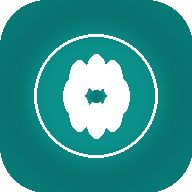
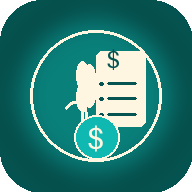
Add files via upload

diff --git a/index.html b/index.html
@@ -3,35 +3,41 @@
 <head>
 <meta charset="UTF-8">
 <meta name="viewport" content="width=device-width,initial-scale=1">
-<title>Dona Flor Gestão Financeira PRO</title>
+<title>Dona Flor Gestão Financeira</title>
 <link rel="manifest" href="/manifest.json">
 <link rel="icon" href="/icon-192.png">
 <link rel="apple-touch-icon" href="/icon-192.png">
-<meta name="theme-color" content="#0FB9B1">
+<meta name="theme-color" content="#055451">
 <style>
-:root{--t:#0FB9B1;--d:#087A76;--bg:#f3f5f7;--red:#b91c1c;--green:#16a34a;--blue:#2563eb;--orange:#f59e0b;--muted:#64748b}
-*{box-sizing:border-box}body{margin:0;font-family:Arial,sans-serif;background:linear-gradient(180deg,#f7fafb,#eef3f5);color:#17202A}
-.container{max-width:1180px;margin:auto;padding:16px}.card{background:#fff;border-radius:22px;padding:20px;margin-bottom:16px;box-shadow:0 10px 30px rgba(15,23,42,.08);border:1px solid rgba(15,185,177,.10)}
-.login-wrap{min-height:100vh;display:flex;align-items:center;justify-content:center;padding:22px;background:radial-gradient(circle at 50% 10%,rgba(15,185,177,.25),transparent 40%),linear-gradient(180deg,#f7fafb,#eaf0f3)}
-.login{width:100%;max-width:470px;text-align:center}.logo{width:105px;height:105px;border-radius:30px;margin:0 auto 14px;box-shadow:0 12px 26px rgba(10,143,138,.25)}
-h1{margin:0;color:var(--d);font-size:32px}h2{margin-top:0}.sub{color:var(--muted);margin-top:6px}
-input,select,textarea{width:100%;padding:14px;margin:7px 0;border-radius:14px;border:1px solid #D7DEE8;font-size:15px;outline:none}textarea{min-height:85px}
-button{padding:12px 15px;border:0;border-radius:14px;background:var(--d);color:#fff;font-weight:800;margin:4px;cursor:pointer}.btn-full{width:100%;margin-top:10px}.btn-light{background:#eef2f7;color:#111827}.btn-blue{background:var(--blue)}.btn-green{background:var(--green)}.btn-red{background:var(--red)}.btn-dark{background:#334155}.btn-orange{background:var(--orange);color:#111827}.btn-small{font-size:12px;padding:8px 10px}
+:root{--t:#0FB9B1;--d:#055451;--d2:#087A76;--bg:#f6faf9;--red:#b91c1c;--green:#15803d;--blue:#2563eb;--orange:#f59e0b;--muted:#64748b;--line:#e5e7eb;--cream:#fff6e1}
+*{box-sizing:border-box}body{margin:0;font-family:Arial,sans-serif;background:linear-gradient(180deg,#f8fcfb,#eef5f4);color:#17202A}
+.container{max-width:1180px;margin:auto;padding:16px}
+.card{background:#fff;border-radius:22px;padding:20px;margin-bottom:16px;box-shadow:0 10px 30px rgba(15,23,42,.08);border:1px solid rgba(15,185,177,.10)}
+.login-wrap{min-height:100vh;display:flex;align-items:center;justify-content:center;padding:22px;background:radial-gradient(circle at 50% 10%,rgba(15,185,177,.28),transparent 40%),linear-gradient(180deg,#f7fafb,#eaf0f3)}
+.login{width:100%;max-width:470px;text-align:center}.logo{width:105px;height:105px;border-radius:30px;margin:0 auto 14px;box-shadow:0 12px 26px rgba(5,84,81,.25)}
+h1{margin:0;color:var(--d);font-size:32px;line-height:1.1}h2{margin-top:0;color:#0f172a}.sub{color:var(--muted);margin-top:6px;line-height:1.35}
+input,select,textarea{width:100%;padding:14px;margin:7px 0;border-radius:14px;border:1px solid #D7DEE8;font-size:15px;outline:none;background:#fff}
+input:focus,select:focus,textarea:focus{border-color:var(--t);box-shadow:0 0 0 4px rgba(15,185,177,.12)}textarea{min-height:85px;resize:vertical}
+button{padding:12px 15px;border:0;border-radius:14px;background:var(--d2);color:#fff;font-weight:800;margin:4px;cursor:pointer}button:hover{filter:brightness(.97)}
+.btn-full{width:100%;margin-top:10px}.btn-light{background:#eef2f7;color:#111827}.btn-blue{background:var(--blue)}.btn-green{background:var(--green)}.btn-red{background:var(--red)}.btn-dark{background:#334155}.btn-orange{background:var(--orange);color:#111827}.btn-small{font-size:12px;padding:8px 10px}
 .erro{background:#fef2f2;border:1px solid #fecaca;color:#991b1b;padding:10px;border-radius:14px;margin-top:10px;display:none}.ok{background:#ecfdf5;border:1px solid #a7f3d0;color:#065f46;padding:10px;border-radius:14px;margin-top:10px}
+.nav{display:flex;gap:8px;flex-wrap:wrap;margin-top:10px}.nav button{background:#e8f8f6;color:var(--d)}.nav button.active{background:var(--d2);color:#fff}
 .grid{display:grid;grid-template-columns:1fr;gap:12px}.two{display:grid;grid-template-columns:1fr;gap:16px}.three{display:grid;grid-template-columns:1fr;gap:12px}
 .resumo{background:#E7FFFC;border-left:5px solid var(--t)}.alerta{background:#fff7ed;border-left:5px solid var(--orange)}.recado{background:#fef2f2;border-left:5px solid #ef4444}.resumo strong,.alerta strong,.recado strong{font-size:22px}
-table{width:100%;border-collapse:collapse;font-size:13px}th,td{padding:10px;border-bottom:1px solid #e5e7eb;text-align:left;vertical-align:middle}th{background:#f9fafb}.badge{display:inline-block;padding:4px 9px;border-radius:99px;background:#E7FFFC;color:var(--d);font-size:12px;font-weight:700}
-.row{display:flex;gap:6px;flex-wrap:wrap;align-items:center}.item{display:flex;justify-content:space-between;gap:10px;border-bottom:1px solid #e5e7eb;padding:11px 0}.item:last-child{border-bottom:0}
-#app,#usuarios{display:none}.chart{display:flex;gap:12px;align-items:end;height:260px;overflow:auto;border:1px solid #e5e7eb;border-radius:16px;padding:12px}.barwrap{min-width:125px;text-align:center;font-size:12px;color:#687385}.bar{width:46px;margin:auto;background:linear-gradient(180deg,var(--t),var(--d));border-radius:12px 12px 0 0}
-.modal-bg{display:none;position:fixed;inset:0;background:rgba(15,23,42,.55);z-index:99;align-items:center;justify-content:center;padding:18px}.modal{background:#fff;border-radius:22px;padding:22px;max-width:540px;width:100%;box-shadow:0 20px 60px rgba(0,0,0,.25)}
-@media(min-width:760px){.grid{grid-template-columns:repeat(6,1fr)}.two{grid-template-columns:1fr 1fr}.three{grid-template-columns:repeat(3,1fr)}}@media print{.no-print,.modal-bg{display:none!important}body{background:#fff}.card{box-shadow:none;border:1px solid #ddd}}
+table{width:100%;border-collapse:collapse;font-size:13px}th,td{padding:10px;border-bottom:1px solid var(--line);text-align:left;vertical-align:middle}th{background:#f9fafb}
+.badge{display:inline-block;padding:4px 9px;border-radius:99px;background:#E7FFFC;color:var(--d);font-size:12px;font-weight:700}.badge-pago{background:#dcfce7;color:#166534}.badge-aberto{background:#fef3c7;color:#92400e}.badge-red{background:#fee2e2;color:#991b1b}
+.row{display:flex;gap:6px;flex-wrap:wrap;align-items:center}.item{display:flex;justify-content:space-between;gap:10px;border-bottom:1px solid var(--line);padding:11px 0}.item:last-child{border-bottom:0}
+#app,#usuarios{display:none}.chart{display:flex;gap:12px;align-items:end;height:260px;overflow:auto;border:1px solid var(--line);border-radius:16px;padding:12px}.barwrap{min-width:125px;text-align:center;font-size:12px;color:#687385}.bar{width:46px;margin:auto;background:linear-gradient(180deg,var(--t),var(--d));border-radius:12px 12px 0 0}
+.today-list{max-height:260px;overflow:auto}.empty{color:var(--muted);font-size:14px}
+@media(min-width:760px){.grid{grid-template-columns:repeat(6,1fr)}.two{grid-template-columns:1fr 1fr}.three{grid-template-columns:repeat(3,1fr)}}
+@media print{.no-print,#usuarios{display:none!important}body{background:#fff}.card{box-shadow:none;border:1px solid #ddd}}
 </style>
 </head>
 <body>
 <div id="login" class="login-wrap">
   <div class="card login">
     <img src="/icon-512.png" class="logo" alt="Dona Flor">
-    <h1>Dona Flor</h1><p class="sub">Gestão Financeira PRO</p>
+    <h1>Dona Flor</h1><p class="sub">Gestão Financeira</p>
     <input id="user" placeholder="Usuário" autocomplete="username">
     <input id="pass" type="password" placeholder="Senha" autocomplete="current-password">
     <button class="btn-full" onclick="entrar()">Acessar sistema</button>
@@ -41,12 +47,11 @@ table{width:100%;border-collapse:collapse;font-size:13px}th,td{padding:10px;bord
 </div>
 
 <div id="app">
-<div class="modal-bg no-print" id="modal"><div class="modal"><h2>Vencimentos de hoje</h2><p id="modalTexto"></p><div id="modalLista"></div><button onclick="fecharModal()">Fechar</button></div></div>
 <div class="container">
   <div class="card">
-    <div class="row"><img src="/icon-512.png" style="width:70px;height:70px;border-radius:22px"><div><h1>Dona Flor Gestão Financeira PRO</h1><p class="sub">Controle de contas a pagar na nuvem</p></div></div>
-    <div class="ok no-print">Usuário: <b id="userInfo"></b> <button class="btn-dark" onclick="sair()">Sair</button></div>
-    <div class="row no-print" style="margin-top:8px"><button onclick="mostrarPainel()">Painel</button><button class="btn-blue" onclick="window.print()">PDF</button><button class="btn-dark" onclick="exportarCSV()">CSV</button><button class="btn-green" onclick="whatsapp()">WhatsApp</button><button id="btnUsers" class="btn-orange" onclick="mostrarUsuarios()">Gestão de usuários</button></div>
+    <div class="row"><img src="/icon-512.png" style="width:70px;height:70px;border-radius:22px"><div><h1>Dona Flor Gestão Financeira</h1><p class="sub">Controle de contas a pagar</p></div></div>
+    <div class="ok no-print">Usuário: <b id="userInfo"></b> <button class="btn-dark btn-small" onclick="sair()">Sair</button></div>
+    <div class="nav no-print"><button id="navPainel" class="active" onclick="mostrarPainel()">Painel</button><button id="navUsuarios" onclick="mostrarUsuarios()">Gestão de usuários</button></div>
   </div>
 
   <div id="painel">
@@ -59,18 +64,28 @@ table{width:100%;border-collapse:collapse;font-size:13px}th,td{padding:10px;bord
       <div class="card resumo"><div>Quantidade</div><strong id="quantidade">0</strong></div>
     </div>
 
-    <div class="two no-print">
-      <div class="card"><h2>Lançamento de contas</h2><input id="desc" placeholder="Descrição"><input id="valor" inputmode="decimal" placeholder="Valor - Ex: 150,90"><input id="venc" type="date"><select id="centro"><option>Dona Flor Andradina</option><option>Dona Flor Paranaíba</option><option>Dona Flor Três Lagoas</option><option>Brilho Dourado</option><option>Pessoal</option></select><select id="status"><option>Aberto</option><option>Pago</option></select><textarea id="obs" placeholder="Observação"></textarea><button class="btn-full" onclick="salvarConta()">Salvar conta</button></div>
-      <div class="card"><h2>Bloco de notas / lembretes</h2><input id="ntitulo" placeholder="Título"><textarea id="ntexto" placeholder="Recado"></textarea><input id="ndata" type="date"><select id="nprio"><option>Normal</option><option>Urgente</option></select><select id="nloja"><option value="">Todas as lojas</option><option>Dona Flor Andradina</option><option>Dona Flor Paranaíba</option><option>Dona Flor Três Lagoas</option><option>Brilho Dourado</option><option>Pessoal</option></select><button class="btn-full" onclick="salvarNota()">Salvar lembrete</button></div>
+    <div class="two">
+      <div class="card">
+        <h2>Contas de hoje</h2>
+        <div id="contasHoje" class="today-list"></div>
+      </div>
+      <div class="card">
+        <h2>Bloco de notas</h2>
+        <div id="notasLista"></div>
+      </div>
     </div>
 
-    <div class="card"><h2>Contas cadastradas</h2><div class="row no-print"><select id="fCentro" onchange="render()"><option value="">Todos os centros</option><option>Dona Flor Andradina</option><option>Dona Flor Paranaíba</option><option>Dona Flor Três Lagoas</option><option>Brilho Dourado</option><option>Pessoal</option></select><select id="fStatus" onchange="render()"><option value="">Todos os status</option><option>Aberto</option><option>Pago</option></select></div><div style="overflow:auto"><table><thead><tr><th>Descrição</th><th>Valor</th><th>Vencimento</th><th>Centro</th><th>Status</th><th class="no-print">Ações</th></tr></thead><tbody id="tbody"></tbody></table></div></div>
-    <div class="card"><h2>Recados e lembretes</h2><div id="notasLista"></div></div>
+    <div class="two no-print">
+      <div class="card"><h2>Lançamento de contas</h2><input id="desc" data-cap placeholder="Descrição"><input id="valor" inputmode="decimal" placeholder="Valor - Ex: 150,90"><input id="venc" type="date"><select id="centro"><option>Dona Flor Andradina</option><option>Dona Flor Paranaíba</option><option>Dona Flor Três Lagoas</option><option>Brilho Dourado</option><option>Pessoal</option></select><select id="status"><option>Aberto</option><option>Pago</option></select><textarea id="obs" data-cap placeholder="Observação"></textarea><button class="btn-full" onclick="salvarConta()">Salvar conta</button></div>
+      <div class="card"><h2>Novo lembrete</h2><input id="ntitulo" data-cap placeholder="Título"><textarea id="ntexto" data-cap placeholder="Recado"></textarea><input id="ndata" type="date"><select id="nprio"><option>Normal</option><option>Urgente</option></select><select id="nloja"><option value="">Todas as lojas</option><option>Dona Flor Andradina</option><option>Dona Flor Paranaíba</option><option>Dona Flor Três Lagoas</option><option>Brilho Dourado</option><option>Pessoal</option></select><button class="btn-full" onclick="salvarNota()">Salvar lembrete</button></div>
+    </div>
+
+    <div class="card"><h2>Contas cadastradas</h2><div class="row no-print"><select id="fCentro" onchange="render()"><option value="">Todos os centros</option><option>Dona Flor Andradina</option><option>Dona Flor Paranaíba</option><option>Dona Flor Três Lagoas</option><option>Brilho Dourado</option><option>Pessoal</option></select><select id="fStatus" onchange="render()"><option value="">Todos os status</option><option>Aberto</option><option>Pago</option></select><select id="acaoRelatorio" onchange="executarRelatorio()"><option value="">Gerar relatório</option><option value="pdf">Exportar PDF</option><option value="csv">Exportar CSV</option></select></div><div style="overflow:auto"><table><thead><tr><th>Descrição</th><th>Valor</th><th>Vencimento</th><th>Centro</th><th>Status</th><th class="no-print">Ações</th></tr></thead><tbody id="tbody"></tbody></table></div></div>
     <div class="card"><h2>Gráfico por centro de custo</h2><div id="grafico" class="chart"></div></div>
   </div>
 
   <div id="usuarios">
-    <div class="card"><h2>Gestão de usuários</h2><div class="three"><input id="unome" placeholder="Nome"><input id="uusuario" placeholder="Usuário"><input id="usenha" placeholder="Senha"></div><div class="three"><select id="utipo"><option value="gerente">Gerente</option><option value="admin">Admin</option></select><select id="uloja"><option value="">Todas/Admin</option><option>Dona Flor Andradina</option><option>Dona Flor Paranaíba</option><option>Dona Flor Três Lagoas</option><option>Brilho Dourado</option><option>Pessoal</option></select><select id="upagar"><option value="true">Pode marcar pago</option><option value="false">Só visualiza</option></select></div><button onclick="salvarUsuario()">Salvar usuário</button><button class="btn-dark" onclick="mostrarPainel()">Voltar</button></div>
+    <div class="card"><h2>Gestão de usuários</h2><div class="three"><input id="unome" data-cap placeholder="Nome"><input id="uusuario" placeholder="Usuário"><input id="usenha" placeholder="Senha"></div><div class="three"><select id="utipo"><option value="gerente">Gerente</option><option value="admin">Admin</option></select><select id="uloja"><option value="">Todas/Admin</option><option>Dona Flor Andradina</option><option>Dona Flor Paranaíba</option><option>Dona Flor Três Lagoas</option><option>Brilho Dourado</option><option>Pessoal</option></select><select id="upagar"><option value="true">Pode marcar pago</option><option value="false">Só visualiza</option></select></div><button onclick="salvarUsuario()">Salvar usuário</button><button class="btn-dark" onclick="mostrarPainel()">Voltar</button></div>
     <div class="card"><h2>Usuários cadastrados</h2><div id="usuariosLista"></div></div>
   </div>
 </div>
@@ -84,22 +99,25 @@ let usuario=null, contas=[], notas=[], usuarios=[];
 const centros=["Dona Flor Andradina","Dona Flor Paranaíba","Dona Flor Três Lagoas","Brilho Dourado","Pessoal"];
 async function api(path,opts={}){const r=await fetch(URL+"/rest/v1/"+path,{...opts,headers:{...HEAD,...(opts.headers||{})}});const t=await r.text();const data=t?JSON.parse(t):null;if(!r.ok)throw new Error(data?.message||t||r.status);return data;}
 function moeda(v){return Number(v||0).toLocaleString("pt-BR",{style:"currency",currency:"BRL"})}function hoje(){return new Date().toISOString().slice(0,10)}function mesAno(d){return d?d.slice(0,7):""}function parseValor(v){return Number(String(v||"").replace(/[R$\s]/g,"").replace(/\./g,"").replace(",","."))}function isAdmin(){return String(usuario?.tipo||"").toLowerCase()==="admin"}function visContas(){return isAdmin()?contas:contas.filter(c=>c.centro===usuario.loja)}function visNotas(){return isAdmin()?notas:notas.filter(n=>!n.loja||n.loja===usuario.loja)}
+function primeiraMaiuscula(txt){txt=String(txt||"").trimStart();return txt?txt.charAt(0).toUpperCase()+txt.slice(1):""}
+document.addEventListener("input",e=>{if(e.target.matches("[data-cap]")){let pos=e.target.selectionStart;e.target.value=primeiraMaiuscula(e.target.value);e.target.setSelectionRange(pos,pos);}});
 
-async function entrar(){const u=user.value.trim().toLowerCase(),s=pass.value.trim();loginErro.style.display="none";try{const dados=await api("df_usuarios?select=*");const achado=dados.find(x=>String(x.usuario).toLowerCase()===u&&String(x.senha)===s&&x.ativo===true);if(!achado){loginErro.style.display="block";loginErro.textContent="Credenciais inválidas.";return}usuario=achado;localStorage.setItem("df_user_v10",JSON.stringify(usuario));abrir();}catch(e){loginErro.style.display="block";loginErro.innerHTML="Erro ao conectar:<br>"+e.message;}}
-function abrir(){login.style.display="none";app.style.display="block";userInfo.textContent=usuario.nome||usuario.usuario;btnUsers.style.display=isAdmin()?"":"none";carregar();}function sair(){localStorage.removeItem("df_user_v10");location.reload();}window.onload=()=>{const u=localStorage.getItem("df_user_v10");if(u){usuario=JSON.parse(u);abrir();}}
-async function carregar(){contas=await api("df_contas?select=*&order=vencimento.asc");notas=await api("df_notas?select=*&order=data_lembrete.asc");usuarios=await api("df_usuarios?select=*&order=nome.asc");render();renderUsuarios();setTimeout(mostrarPopup,300);}
-function mostrarPainel(){painel.style.display="block";usuarios.style.display="none"}function mostrarUsuarios(){painel.style.display="none";usuarios.style.display="block";renderUsuarios();}
-function mostrarPopup(){let h=hoje(),items=visContas().filter(c=>c.status==="Aberto"&&c.vencimento===h),total=items.reduce((s,c)=>s+Number(c.valor),0);modalTexto.innerHTML="Total vencendo hoje: <b>"+moeda(total)+"</b>";modalLista.innerHTML=items.length?items.map(c=>'<div class="item"><div><b>'+c.descricao+'</b><br>'+c.centro+'</div><b>'+moeda(c.valor)+'</b></div>').join(""):"Nenhuma conta vencendo hoje.";modal.style.display="flex"}function fecharModal(){modal.style.display="none"}
-async function salvarConta(){let item={descricao:desc.value.trim(),valor:parseValor(valor.value),vencimento:venc.value||hoje(),centro:centro.value,status:status.value,observacao:obs.value.trim(),criado_por:usuario.usuario};if(!item.descricao||!item.valor){alert("Preencha descrição e valor.");return}await api("df_contas",{method:"POST",headers:{Prefer:"return=minimal"},body:JSON.stringify(item)});desc.value=valor.value=venc.value=obs.value="";carregar();}
-async function excluir(id){if(confirm("Excluir conta?")){await api("df_contas?id=eq."+id,{method:"DELETE"});carregar();}}async function marcarPago(id,statusAtual){await api("df_contas?id=eq."+id,{method:"PATCH",headers:{Prefer:"return:minimal"},body:JSON.stringify({status:statusAtual==="Pago"?"Aberto":"Pago"})});carregar();}
-async function salvarNota(){let item={titulo:ntitulo.value||"Sem título",texto:ntexto.value,data_lembrete:ndata.value||null,prioridade:nprio.value,loja:nloja.value||null,criado_por:usuario.usuario};await api("df_notas",{method:"POST",headers:{Prefer:"return=minimal"},body:JSON.stringify(item)});ntitulo.value=ntexto.value=ndata.value="";nloja.value="";carregar();}
-function render(){let base=visContas(),h=hoje(),m=mesAno(h),fc=fCentro.value,fs=fStatus.value;totalAberto.textContent=moeda(base.filter(c=>c.status==="Aberto").reduce((s,c)=>s+Number(c.valor),0));pagoMes.textContent=moeda(base.filter(c=>c.status==="Pago"&&mesAno(c.vencimento)===m).reduce((s,c)=>s+Number(c.valor),0));vencidas.textContent=moeda(base.filter(c=>c.status==="Aberto"&&c.vencimento<h).reduce((s,c)=>s+Number(c.valor),0));venceHoje.textContent=moeda(base.filter(c=>c.status==="Aberto"&&c.vencimento===h).reduce((s,c)=>s+Number(c.valor),0));lembretesHoje.textContent=visNotas().filter(n=>n.data_lembrete===h).length;quantidade.textContent=base.length;let filtrada=base.filter(c=>(!fc||c.centro===fc)&&(!fs||c.status===fs));tbody.innerHTML=filtrada.map(c=>`<tr><td>${c.descricao}</td><td>${moeda(c.valor)}</td><td>${c.vencimento}</td><td>${c.centro}</td><td><span class="badge">${c.status}</span></td><td class="no-print"><button class="btn-green btn-small" onclick="marcarPago('${c.id}','${c.status}')">Pago/Aberto</button><button class="btn-red btn-small" onclick="excluir('${c.id}')">Excluir</button></td></tr>`).join("")||'<tr><td colspan="6">Nenhuma conta cadastrada.</td></tr>';renderNotas();renderGrafico(base);}
-function renderNotas(){notasLista.innerHTML=visNotas().map(n=>'<div class="item"><div><b>'+n.titulo+'</b><br>'+(n.texto||'')+'<br><span class="sub">'+(n.data_lembrete||"Sem data")+(n.loja?" • "+n.loja:"")+'</span></div><span class="badge">'+n.prioridade+'</span></div>').join("")||"<p>Nenhum lembrete.</p>"}
+async function entrar(){const u=user.value.trim().toLowerCase(),s=pass.value.trim();loginErro.style.display="none";try{const dados=await api("df_usuarios?select=*");const achado=dados.find(x=>String(x.usuario).toLowerCase()===u&&String(x.senha)===s&&x.ativo===true);if(!achado){loginErro.style.display="block";loginErro.textContent="Credenciais inválidas.";return}usuario=achado;localStorage.setItem("df_user_v11",JSON.stringify(usuario));abrir();}catch(e){loginErro.style.display="block";loginErro.innerHTML="Erro ao conectar:<br>"+e.message;}}
+function abrir(){login.style.display="none";app.style.display="block";userInfo.textContent=usuario.nome||usuario.usuario;navUsuarios.style.display=isAdmin()?"":"none";carregar();}function sair(){localStorage.removeItem("df_user_v11");location.reload();}window.onload=()=>{const u=localStorage.getItem("df_user_v11");if(u){usuario=JSON.parse(u);abrir();}}
+async function carregar(){contas=await api("df_contas?select=*&order=vencimento.asc");notas=await api("df_notas?select=*&order=data_lembrete.asc");usuarios=await api("df_usuarios?select=*&order=nome.asc");render();renderUsuarios();}
+function mostrarPainel(){painel.style.display="block";usuarios.style.display="none";navPainel.classList.add("active");navUsuarios.classList.remove("active")}function mostrarUsuarios(){if(!isAdmin())return;painel.style.display="none";usuarios.style.display="block";navUsuarios.classList.add("active");navPainel.classList.remove("active");renderUsuarios();}
+async function salvarConta(){let item={descricao:primeiraMaiuscula(desc.value),valor:parseValor(valor.value),vencimento:venc.value||hoje(),centro:centro.value,status:status.value,observacao:primeiraMaiuscula(obs.value),criado_por:usuario.usuario};if(!item.descricao||!item.valor){alert("Preencha descrição e valor.");return}await api("df_contas",{method:"POST",headers:{Prefer:"return=minimal"},body:JSON.stringify(item)});desc.value=valor.value=venc.value=obs.value="";carregar();}
+async function excluir(id){if(confirm("Excluir conta?")){await api("df_contas?id=eq."+id,{method:"DELETE"});carregar();}}async function marcarPago(id,statusAtual){await api("df_contas?id=eq."+id,{method:"PATCH",headers:{Prefer:"return=minimal"},body:JSON.stringify({status:statusAtual==="Pago"?"Aberto":"Pago"})});carregar();}
+async function salvarNota(){let item={titulo:primeiraMaiuscula(ntitulo.value)||"Sem título",texto:primeiraMaiuscula(ntexto.value),data_lembrete:ndata.value||null,prioridade:nprio.value,loja:nloja.value||null,criado_por:usuario.usuario};await api("df_notas",{method:"POST",headers:{Prefer:"return=minimal"},body:JSON.stringify(item)});ntitulo.value=ntexto.value=ndata.value="";nloja.value="";carregar();}
+function filtroContas(){let base=visContas(),fc=fCentro.value,fs=fStatus.value;return base.filter(c=>(!fc||c.centro===fc)&&(!fs||c.status===fs))}
+function render(){let base=visContas(),h=hoje(),m=mesAno(h),filtrada=filtroContas();totalAberto.textContent=moeda(base.filter(c=>c.status==="Aberto").reduce((s,c)=>s+Number(c.valor),0));pagoMes.textContent=moeda(base.filter(c=>c.status==="Pago"&&mesAno(c.vencimento)===m).reduce((s,c)=>s+Number(c.valor),0));vencidas.textContent=moeda(base.filter(c=>c.status==="Aberto"&&c.vencimento<h).reduce((s,c)=>s+Number(c.valor),0));venceHoje.textContent=moeda(base.filter(c=>c.status==="Aberto"&&c.vencimento===h).reduce((s,c)=>s+Number(c.valor),0));lembretesHoje.textContent=visNotas().filter(n=>n.data_lembrete===h).length;quantidade.textContent=base.length;tbody.innerHTML=filtrada.map(c=>`<tr><td>${c.descricao}</td><td>${moeda(c.valor)}</td><td>${c.vencimento}</td><td>${c.centro}</td><td><span class="badge ${c.status==="Pago"?"badge-pago":"badge-aberto"}">${c.status}</span></td><td class="no-print"><button class="btn-green btn-small" onclick="marcarPago('${c.id}','${c.status}')">Pago/Aberto</button><button class="btn-red btn-small" onclick="excluir('${c.id}')">Excluir</button></td></tr>`).join("")||'<tr><td colspan="6">Nenhuma conta cadastrada.</td></tr>';renderHoje();renderNotas();renderGrafico(base);}
+function renderHoje(){let h=hoje(),items=visContas().filter(c=>c.status==="Aberto"&&c.vencimento===h);contasHoje.innerHTML=items.length?items.map(c=>'<div class="item"><div><b>'+c.descricao+'</b><br><span class="sub">'+c.centro+'</span></div><b>'+moeda(c.valor)+'</b></div>').join(""):'<p class="empty">Nenhuma conta em aberto vence hoje.</p>';}
+function renderNotas(){notasLista.innerHTML=visNotas().slice(0,8).map(n=>'<div class="item"><div><b>'+n.titulo+'</b><br>'+(n.texto||'')+'<br><span class="sub">'+(n.data_lembrete||"Sem data")+(n.loja?" • "+n.loja:"")+'</span></div><span class="badge '+(n.prioridade==="Urgente"?"badge-red":"")+'">'+n.prioridade+'</span></div>').join("")||"<p class='empty'>Nenhum lembrete.</p>"}
 function renderGrafico(base){let dados=centros.map(centro=>base.filter(c=>c.centro===centro).reduce((s,c)=>s+Number(c.valor),0));let max=Math.max(...dados,1);grafico.innerHTML=centros.map((c,i)=>`<div class="barwrap"><div class="bar" style="height:${Math.max(6,(dados[i]/max)*220)}px"></div>${c}<br><b>${moeda(dados[i])}</b></div>`).join("");}
-async function salvarUsuario(){if(!isAdmin())return;let item={nome:unome.value,usuario:uusuario.value.trim().toLowerCase(),senha:usenha.value,tipo:utipo.value,loja:uloja.value||null,pode_pagar:upagar.value==="true",ativo:true};if(!item.nome||!item.usuario||!item.senha){alert("Preencha nome, usuário e senha.");return}await api("df_usuarios",{method:"POST",headers:{Prefer:"return:minimal"},body:JSON.stringify(item)});unome.value=uusuario.value=usenha.value="";carregar();}
-function renderUsuarios(){if(!isAdmin())return;usuariosLista.innerHTML=usuarios.map(u=>'<div class="item"><div><b>'+u.nome+'</b><br><span class="sub">'+u.usuario+' • '+u.tipo+' • '+(u.loja||"Todas")+'</span></div><span class="badge">'+(u.ativo?"Ativo":"Inativo")+'</span></div>').join("")}
-function exportarCSV(){let linhas=[["Descrição","Valor","Vencimento","Centro","Status"],...visContas().map(c=>[c.descricao,c.valor,c.vencimento,c.centro,c.status])];let csv=linhas.map(l=>l.map(v=>`"${String(v).replaceAll('"','""')}"`).join(";")).join("\n");let blob=new Blob([csv],{type:"text/csv;charset=utf-8"}),url=URL.createObjectURL(blob),a=document.createElement("a");a.href=url;a.download="contas-dona-flor.csv";a.click();URL.revokeObjectURL(url);}
-function whatsapp(){let total=visContas().filter(c=>c.status==="Aberto").reduce((s,c)=>s+Number(c.valor),0);window.open("https://wa.me/?text="+encodeURIComponent(`Dona Flor Gestão Financeira\nTotal em aberto: ${moeda(total)}\nQuantidade: ${visContas().length}`),"_blank");}
+async function salvarUsuario(){if(!isAdmin())return;let item={nome:primeiraMaiuscula(unome.value),usuario:uusuario.value.trim().toLowerCase(),senha:usenha.value,tipo:utipo.value,loja:uloja.value||null,pode_pagar:upagar.value==="true",ativo:true};if(!item.nome||!item.usuario||!item.senha){alert("Preencha nome, usuário e senha.");return}await api("df_usuarios",{method:"POST",headers:{Prefer:"return=minimal"},body:JSON.stringify(item)});unome.value=uusuario.value=usenha.value="";carregar();}
+function renderUsuarios(){if(!isAdmin())return;usuariosLista.innerHTML=usuarios.map(u=>'<div class="item"><div><b>'+u.nome+'</b><br><span class="sub">'+u.usuario+' • '+u.tipo+' • '+(u.loja||"Todas")+'</span></div><span class="badge">'+(u.ativo?"Ativo":"Inativo")+'</span></div>').join("")||"<p class='empty'>Nenhum usuário.</p>"}
+function executarRelatorio(){let acao=acaoRelatorio.value;if(acao==="csv")exportarCSV();if(acao==="pdf")window.print();acaoRelatorio.value="";}
+function exportarCSV(){let linhas=[["Descrição","Valor","Vencimento","Centro","Status"],...filtroContas().map(c=>[c.descricao,c.valor,c.vencimento,c.centro,c.status])];let csv=linhas.map(l=>l.map(v=>`"${String(v).replaceAll('"','""')}"`).join(";")).join("\n");let blob=new Blob([csv],{type:"text/csv;charset=utf-8"}),url=URL.createObjectURL(blob),a=document.createElement("a");a.href=url;a.download="contas-dona-flor.csv";a.click();URL.revokeObjectURL(url);}
 </script>
 </body>
 </html>